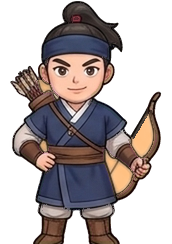
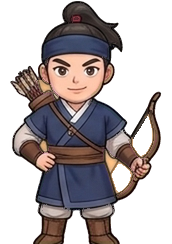
초기 국가 마을 출구를 대문 위치로 정렬, 고구려 사람 초상화 활 투명화
- seonsa1.html: 초기국가(chogiguk) 구역 출구 트리거를 빈 공터가 아니라
  배경 그림에 그려진 목책 대문 위치(x:385~450)로 옮기고, 목책 배리어도
  대문 폭만큼 갈라서 실제로 걸어 들어갈 수 있게 함.
- gogurin.png: 활 안쪽(활대와 시위 사이) 빈 공간에 남아있던 살구색
  배경 조각 두 곳을 투명 처리.

Changed region(s): [[0.7558, 0.459, 0.9012, 0.6598], [0.6395, 0.6598, 0.7558, 0.8033]]

diff --git a/www/seonsa1.html b/www/seonsa1.html
@@ -591,7 +591,8 @@ const ZONES = {
     img: 'assets/scenes/seonsa1_chogiguk.png', label: '초기 국가 마을',
     spawn: { x: 688, y: 470 },
     barriers: [
-      { x0:0, y0:0, x1:620, y1:95 },  // 숲과 목책
+      { x0:0, y0:0, x1:375, y1:95 },  // 숲과 목책(왼쪽, 대문 앞까지)
+      { x0:460, y0:0, x1:620, y1:95 },  // 목책(대문 오른쪽)
       { x0:700, y0:0, x1:965, y1:150 },  // 초가집
       { x0:0, y0:155, x1:260, y1:330 },  // 마구간
       { x0:0, y0:310, x1:95, y1:420 },  // 헛간
@@ -611,7 +612,7 @@ const ZONES = {
       { id:'dongye', name:'동예 사람', x:688, y:560, img:'assets/portraits/dongye.png', look:{ role:'commoner', body:'#6b5a44', accent:'#c9a24a' } },
     ],
     exits: [
-      { rect:{x0:630,y0:0,x1:700,y1:58}, to:'seonsa', spawn:{x:688,y:690}, label:'선사의 강가로' },
+      { rect:{x0:385,y0:0,x1:450,y1:60}, to:'seonsa', spawn:{x:688,y:690}, label:'선사의 강가로' },
     ],
   },
 };
